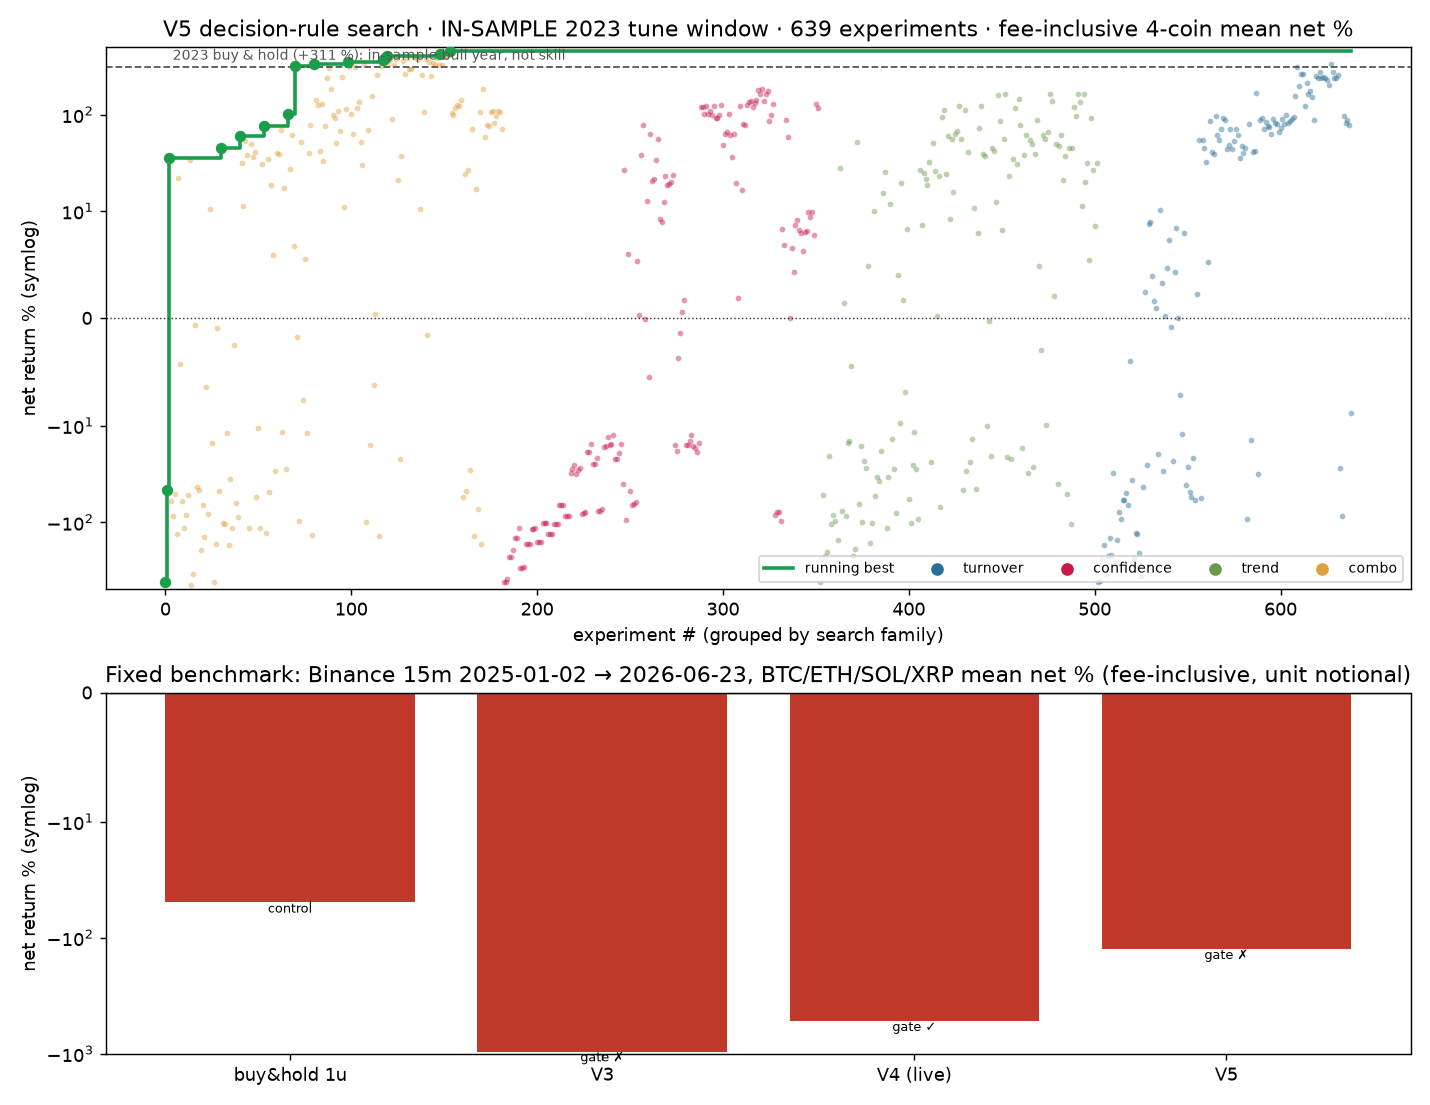
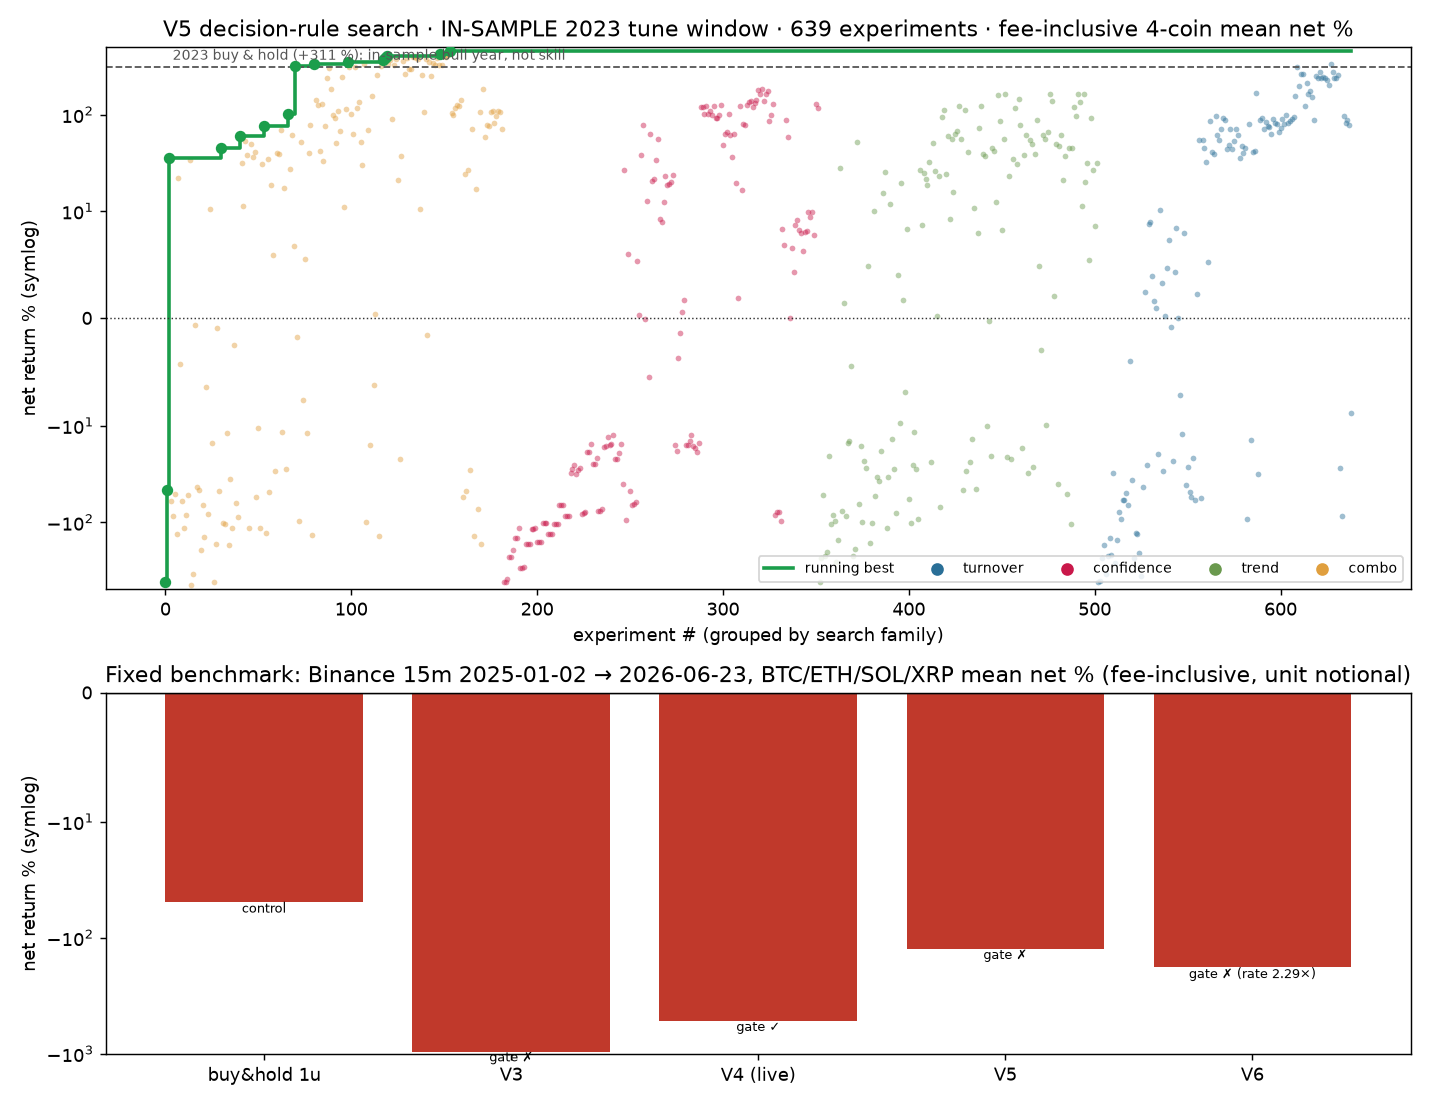
Report V6 PnL (pre-registered) and add V6 to benchmark leaderboard

diff --git a/README.md b/README.md
@@ -74,6 +74,7 @@ Each version is pre-registered with its gate committed before scoring (`training
 | V3 | logistic regression, Mar+Apr 2018 | ✗ over-trades 4.1× | −964 % |
 | **V4 (live)** | V3 plus per-state rate-matched margins | ✓ imitation gate | −527 % |
 | V5 | V4 plus cost-aware rules chosen on 2023/2024 | ✗ long beta, 98 % time in position | −126 % |
+| V6 | gradient boosting on full 2018–2021 history (17× data) | ✗ over-trades 2.29×; imitation F1 +58 % over V4 | −179 % |
 | 1-unit buy & hold | control | — | −49 % |
 
 "Better imitation" and "profitable" are different targets. No version has beaten buy-and-hold

diff --git a/training/ACTION_V6.md b/training/ACTION_V6.md
@@ -63,3 +63,12 @@ Findings:
   It is still negative.
 - The rate-matched margins drifted. The trader's activity changed between 2020 H2 and 2021, so a
   static margin over-trades. 2021 has now been viewed, and no unseen teacher period remains.
+
+Pre-registered PnL report (4-coin mean net, fee-inclusive, artifact sha `c639c6c5…`; decisions
+match the gate run exactly):
+
+| Window | V6 | Fees | Buy & hold |
+|---|---:|---:|---:|
+| 2023 | −59.5 % | 104.7 % | +311 % |
+| 2024 | −141.5 % | 132.3 % | +114 % |
+| 2025-01 → 2026-06 leaderboard | −179.4 % | 162.5 % | −48.9 % |
